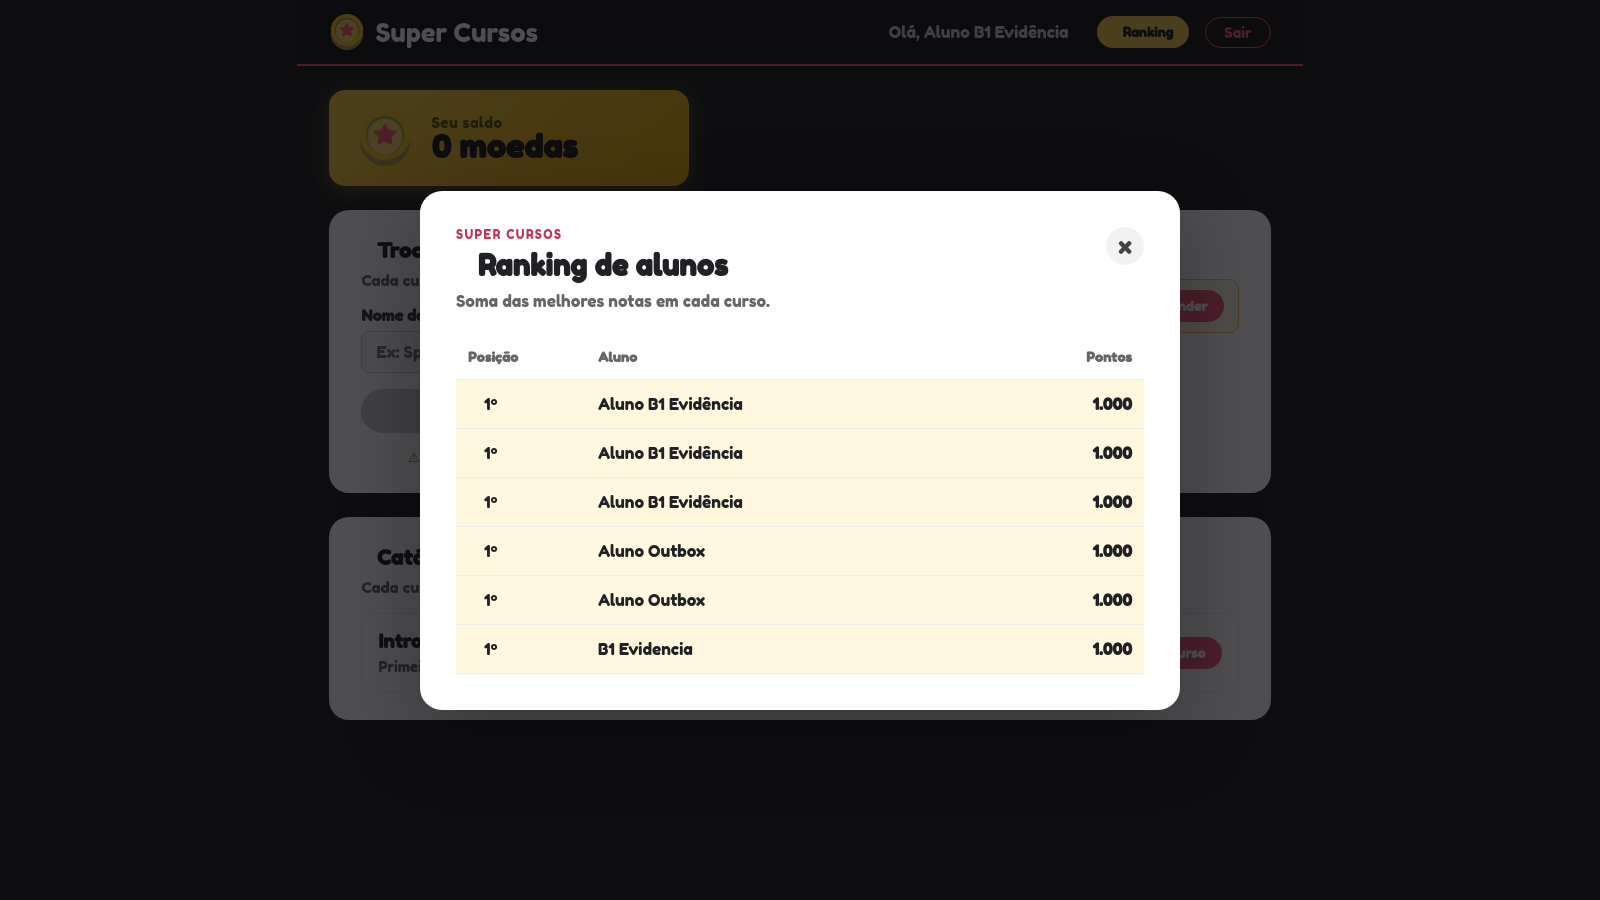
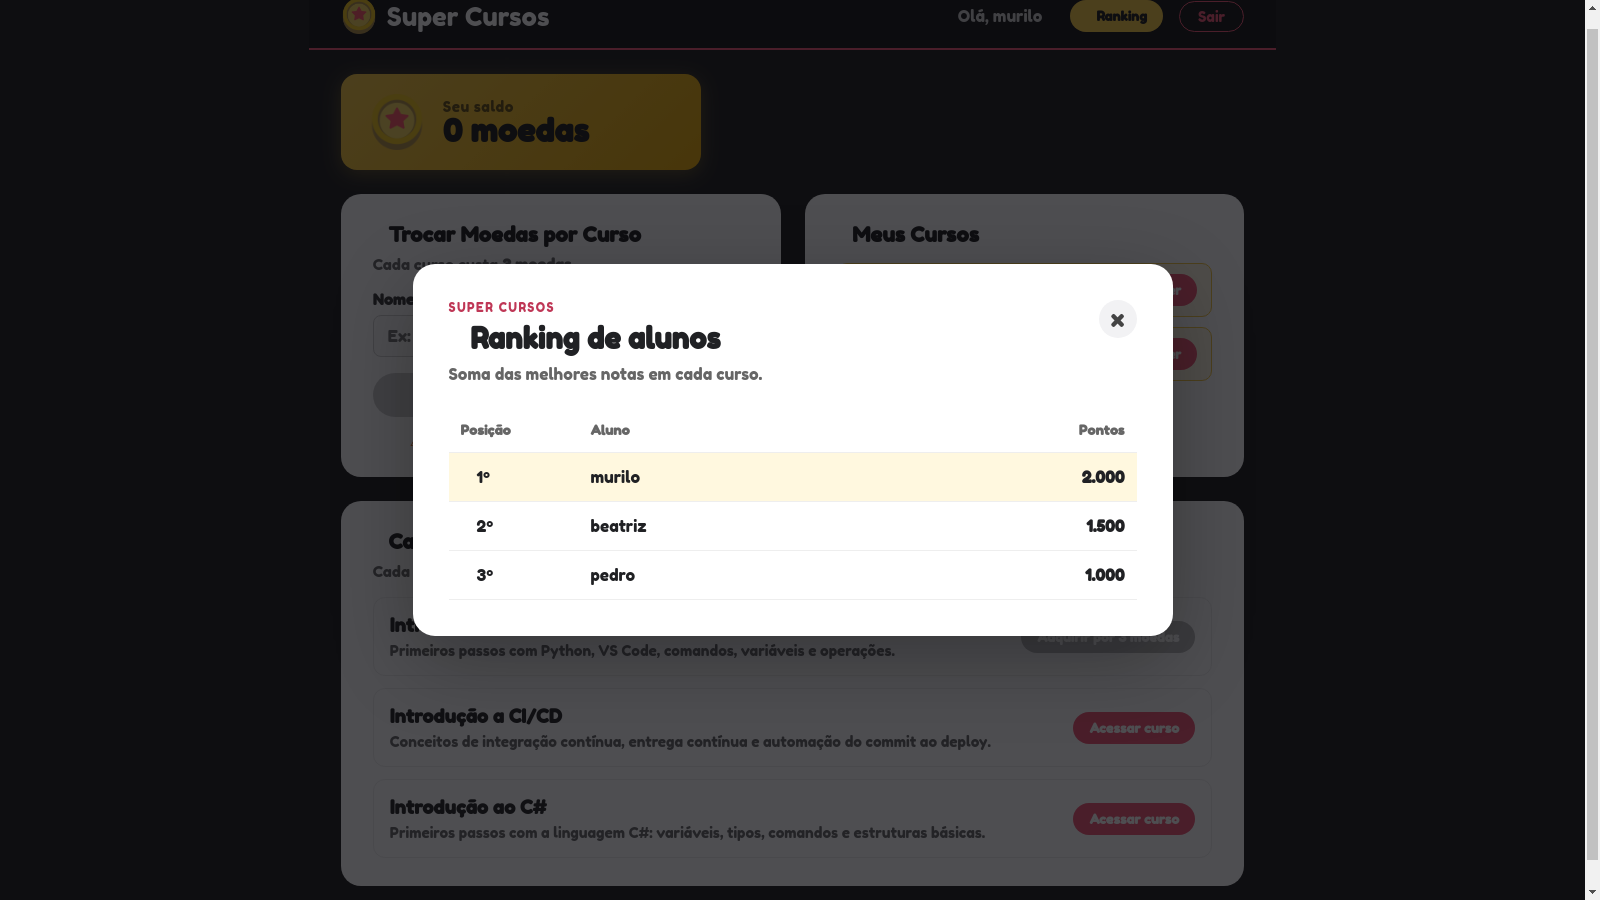
evidences organization

diff --git a/frontend/cypress/e2e/super-cursos.cy.js b/frontend/cypress/e2e/super-cursos.cy.js
@@ -127,11 +127,39 @@ describe('Super Cursos — autenticação e troca de moedas', () => {
     })
   })
 
+  it('mostra os cursos de CI/CD e C# com seus vídeos e quizzes', () => {
+    cadastrarAluno(6).then((aluno) => {
+      entrar(aluno)
+      cy.get('.catalogo-item').should('have.length', 3)
+
+      cy.contains('.catalogo-item', 'Introdução a CI/CD')
+        .contains('button', 'Adquirir por 3 moedas').click()
+      cy.contains('.catalogo-item', 'Introdução ao C#')
+        .contains('button', 'Adquirir por 3 moedas').click()
+
+      cy.contains('.curso-item', 'Introdução a CI/CD')
+        .contains('button', 'Assistir e responder').click()
+      cy.get('h1').should('contain.text', 'Introdução a CI/CD')
+      cy.get('[data-testid="course-video"] iframe')
+        .should('have.attr', 'src', 'https://www.youtube-nocookie.com/embed/95r8nJLq5zU')
+      cy.get('[data-testid="course-quiz"] .questao').should('have.length', 10)
+
+      cy.get('.btn-voltar').click()
+      cy.contains('.curso-item', 'Introdução ao C#')
+        .contains('button', 'Assistir e responder').click()
+      cy.get('h1').should('contain.text', 'Introdução ao C#')
+      cy.get('[data-testid="course-video"] iframe')
+        .should('have.attr', 'src', 'https://www.youtube-nocookie.com/embed/HOpCMKNJEFg')
+      cy.get('[data-testid="course-quiz"] .questao').should('have.length', 10)
+    })
+  })
+
   it('assiste ao vídeo de um curso, responde às 10 questões e atualiza o ranking', () => {
     cadastrarAluno(3).then((aluno) => {
       entrar(aluno)
       cy.intercept('POST', `/api/alunos/${aluno.id}/trocar-moedas`).as('adquirirCursoCatalogo')
-      cy.get('[data-testid="course-purchase"]').click()
+      cy.contains('.catalogo-item', 'Introdução ao Python')
+        .find('[data-testid="course-purchase"]').click()
       cy.wait('@adquirirCursoCatalogo').its('response.statusCode').should('eq', 200)
       cy.get('.msg-ok').should('contain.text', 'adquirido')
       cy.get('.cursos-card [data-testid="course-access"]').click()

diff --git a/src/main/java/com/example/grupo34_atdd/modules/cursos/application/CatalogoCursos.java b/src/main/java/com/example/grupo34_atdd/modules/cursos/application/CatalogoCursos.java
@@ -5,25 +5,36 @@ import com.example.grupo34_atdd.modules.cursos.domain.QuestaoQuiz;
 import org.springframework.stereotype.Component;
 
 import java.util.List;
-import java.util.Map;
+import java.util.Objects;
 
 @Component
 public class CatalogoCursos {
 
     public static final String SLUG_PYTHON = "introducao-python";
     public static final String TITULO_PYTHON = "Introdução ao Python";
+    public static final String SLUG_CICD = "introducao-cicd";
+    public static final String TITULO_CICD = "Introdução a CI/CD";
+    public static final String SLUG_CSHARP = "introducao-csharp";
+    public static final String TITULO_CSHARP = "Introdução ao C#";
     private static final String VIDEO_PYTHON = "https://www.youtube-nocookie.com/embed/g_R_Asf6Co0";
+    private static final String VIDEO_CICD = "https://www.youtube-nocookie.com/embed/95r8nJLq5zU";
+    private static final String VIDEO_CSHARP = "https://www.youtube-nocookie.com/embed/HOpCMKNJEFg";
 
-    private final Map<String, CursoComAvaliacao> cursos = Map.of(
-            SLUG_PYTHON, criarCursoPython()
+    private final List<CursoComAvaliacao> cursos = List.of(
+            criarCursoPython(),
+            criarCursoCicd(),
+            criarCursoCsharp()
     );
 
     public List<CursoComAvaliacao> listar() {
-        return List.copyOf(cursos.values());
+        return cursos;
     }
 
     public CursoComAvaliacao buscar(String slug) {
-        return cursos.get(slug);
+        return cursos.stream()
+                .filter(curso -> Objects.equals(curso.slug(), slug))
+                .findFirst()
+                .orElse(null);
     }
 
     private static CursoComAvaliacao criarCursoPython() {
@@ -40,6 +51,40 @@ public class CatalogoCursos {
                         q("q8", "O que acontece com o texto de um comentário durante a execução?", List.of("É executado como comando", "É ignorado pelo Python", "É exibido sempre", "É transformado em variável"), 1),
                         q("q9", "No exemplo da aula, qual operação calcula o lucro a partir de faturamento e custo?", List.of("Faturamento + custo", "Faturamento - custo", "Faturamento × custo", "Custo ÷ faturamento"), 1),
                         q("q10", "Um valor como 750,1 é classificado como qual tipo no exemplo?", List.of("Inteiro", "Texto", "Booleano", "Número decimal"), 3)
+                ));
+    }
+
+    private static CursoComAvaliacao criarCursoCicd() {
+        return new CursoComAvaliacao(SLUG_CICD, TITULO_CICD,
+                "Conceitos de integração contínua, entrega contínua e automação do commit ao deploy.", VIDEO_CICD,
+                List.of(
+                        q("q1", "O que significa CI em CI/CD?", List.of("Integração contínua", "Instalação de código", "Controle interno", "Interface de comandos"), 0),
+                        q("q2", "Qual prática ajuda a integrar mudanças de código com frequência?", List.of("Guardar alterações sem enviar", "Fazer commits pequenos e frequentes", "Evitar revisão de código", "Juntar todas as mudanças no fim do semestre"), 1),
+                        q("q3", "O que uma etapa de CI costuma executar após uma mudança?", List.of("Somente abrir o editor", "Apagar a versão anterior", "Compilar e executar testes automatizados", "Desativar o controle de versão"), 2),
+                        q("q4", "Para que serve uma pipeline CI/CD?", List.of("Organizar e automatizar etapas do desenvolvimento até a entrega", "Substituir o código-fonte", "Criar usuários no sistema", "Desenhar a interface do programa"), 0),
+                        q("q5", "O que deve acontecer se os testes automatizados falharem?", List.of("Publicar mesmo assim", "Ignorar o resultado", "Interromper o avanço até corrigir o problema", "Apagar os testes"), 2),
+                        q("q6", "Qual é a ideia de entrega contínua (Continuous Delivery)?", List.of("Manter a aplicação sempre pronta para ser publicada", "Publicar somente uma vez por ano", "Fazer todo teste manualmente", "Evitar gerar versões da aplicação"), 0),
+                        q("q7", "O que caracteriza a implantação contínua (Continuous Deployment)?", List.of("A equipe copia arquivos manualmente", "Toda mudança aprovada pela pipeline pode ser publicada automaticamente", "O sistema não possui ambientes", "O código é executado apenas no computador de quem programou"), 1),
+                        q("q8", "Qual é a função da etapa de build?", List.of("Criar uma versão executável ou distribuível da aplicação", "Escolher quem pode usar o sistema", "Editar as respostas do quiz", "Substituir o banco de dados"), 0),
+                        q("q9", "O que é feito em uma etapa de deploy?", List.of("A aplicação é disponibilizada em um ambiente", "O código deixa de ser versionado", "Os testes são removidos", "A documentação é apagada"), 0),
+                        q("q10", "Qual benefício a automação da pipeline oferece?", List.of("Elimina a necessidade de testar", "Torna a entrega mais repetível e reduz etapas manuais", "Garante que nunca haverá falhas", "Substitui a equipe de desenvolvimento"), 1)
+                ));
+    }
+
+    private static CursoComAvaliacao criarCursoCsharp() {
+        return new CursoComAvaliacao(SLUG_CSHARP, TITULO_CSHARP,
+                "Primeiros passos com a linguagem C#: variáveis, tipos, comandos e estruturas básicas.", VIDEO_CSHARP,
+                List.of(
+                        q("q1", "O que é C#?", List.of("Uma linguagem de programação", "Um banco de dados", "Um sistema operacional", "Um navegador de internet"), 0),
+                        q("q2", "Qual tipo é usado normalmente para guardar um número inteiro?", List.of("string", "int", "bool", "char[]"), 1),
+                        q("q3", "Qual tipo representa um texto?", List.of("int", "double", "string", "bool"), 2),
+                        q("q4", "Qual comando escreve uma linha no console em C#?", List.of("Console.WriteLine()", "printLine()", "System.Show()", "echoText()"), 0),
+                        q("q5", "Qual símbolo atribui um valor a uma variável?", List.of("==", "=", "!=", ">="), 1),
+                        q("q6", "Quais valores uma variável do tipo bool pode guardar?", List.of("Somente números", "Texto e números", "true ou false", "Datas e horários"), 2),
+                        q("q7", "Qual sinal normalmente encerra uma instrução em C#?", List.of(":", ",", ".", ";"), 3),
+                        q("q8", "Para que servem as chaves { } no código?", List.of("Delimitar um bloco de código", "Declarar um comentário", "Converter texto em número", "Finalizar o programa"), 0),
+                        q("q9", "Para que serve a estrutura if?", List.of("Repetir uma instrução um número fixo de vezes", "Executar uma parte do código conforme uma condição", "Criar um arquivo", "Mostrar uma mensagem sempre"), 1),
+                        q("q10", "Para que serve um laço for?", List.of("Declarar um texto", "Encerrar a aplicação", "Repetir instruções seguindo uma condição", "Comparar duas strings"), 2)
                 ));
     }
 

diff --git a/src/test/java/com/example/grupo34_atdd/modules/cursos/application/CatalogoCursosTest.java b/src/test/java/com/example/grupo34_atdd/modules/cursos/application/CatalogoCursosTest.java
@@ -1,0 +1,22 @@
+package com.example.grupo34_atdd.modules.cursos.application;
+
+import org.junit.jupiter.api.Test;
+
+import static org.junit.jupiter.api.Assertions.assertEquals;
+import static org.junit.jupiter.api.Assertions.assertTrue;
+
+class CatalogoCursosTest {
+
+    @Test
+    void catalogoContemOsTresCursosComVideoEDezQuestoesCada() {
+        var cursos = new CatalogoCursos().listar();
+
+        assertEquals(3, cursos.size());
+        assertEquals(CatalogoCursos.TITULO_PYTHON, cursos.get(0).titulo());
+        assertEquals(CatalogoCursos.TITULO_CICD, cursos.get(1).titulo());
+        assertEquals(CatalogoCursos.TITULO_CSHARP, cursos.get(2).titulo());
+        assertEquals("https://www.youtube-nocookie.com/embed/95r8nJLq5zU", cursos.get(1).videoUrl());
+        assertEquals("https://www.youtube-nocookie.com/embed/HOpCMKNJEFg", cursos.get(2).videoUrl());
+        assertTrue(cursos.stream().allMatch(curso -> curso.questoes().size() == 10));
+    }
+}

diff --git a/README.md b/README.md
@@ -254,7 +254,7 @@ O [print da aplicação](evidencias/B1/desafio-1/01-aplicacao-modular.png) mostr
 
 **ADR-006:** manter uma esteira até que ciclos de publicação diferentes justifiquem separação. A publicação no Docker Hub continua opcional.
 
-**Resultado B1 executado localmente:** `mvn verify` terminou com sucesso: 36 testes Java e 10 testes de integração PostgreSQL, sem falhas ou erros. Os sete cenários Cypress cobrem login, compra, saldo, vídeo, avaliação e ranking. Os testes Python da IA e do gateway têm dois cenários cada. O ambiente Compose e os health checks também foram conferidos.
+**Resultado B1 executado localmente:** `mvn verify` terminou com sucesso: 37 testes Java e 10 testes de integração PostgreSQL, sem falhas ou erros. Os oito cenários Cypress cobrem login, compra, saldo, os três cursos do catálogo (Python, CI/CD e C#), vídeo, avaliação e ranking. Os testes Python da IA e do gateway têm dois cenários cada. O ambiente Compose e os health checks também foram conferidos.
 
 O fallback também foi provocado com a IA parada; a [saída registrada](evidencias/B1/desafio-6/execucao-fallback.txt) mostra a resposta do Core e o contador correspondente no Prometheus.
 
@@ -272,82 +272,15 @@ O fallback também foi provocado com a IA parada; a [saída registrada](evidenci
 
 ### 14.1 C4 Container
 
-```mermaid
-C4Container
-    Person(aluno, "Aluno", "Estuda, responde avaliações e consulta ranking")
-    System_Ext(dispositivo, "Dispositivo do laboratório", "Publica eventos de aprendizagem MQTT")
-    System_Ext(youtube, "YouTube", "Hospeda o vídeo individual do curso")
-    System_Ext(jenkins, "Jenkins", "Executa CI/CD e aciona Docker Compose")
-    System_Boundary(superCursos, "Super Cursos") {
-        Container(frontend, "Interface Web", "Vue.js / Nginx", "Login, cursos, avaliação e ranking")
-        Container(core, "Core", "Java / Spring Boot", "Monólito modular, API, Outbox e regras")
-        Container(ai, "Serviço de IA demonstrativo", "Python / FastAPI", "Recomendação e busca textual local")
-        Container(mqtt, "Broker MQTT", "Mosquitto", "Recebe eventos QoS 1")
-        Container(gateway, "Gateway IoT", "Python / Paho MQTT", "Transforma MQTT em REST para o Core")
-        ContainerDb(db, "Banco relacional", "PostgreSQL", "Alunos, notas, eventos e Outbox")
-        Container(prom, "Coletor de métricas", "Prometheus", "Coleta métricas do Core, IA e gateway")
-        Container(grafana, "Painéis", "Grafana", "Mostra saúde e sinais operacionais")
-    }
-    Rel(aluno, frontend, "Usa", "HTTPS")
-    Rel(frontend, core, "Consome", "REST/JSON")
-    Rel(frontend, youtube, "Incorpora o vídeo", "HTTPS")
-    Rel(core, db, "Lê/grava dados e eventos", "JPA")
-    Rel(core, ai, "Consulta assistente/recomendação", "HTTP/JSON")
-    Rel(dispositivo, mqtt, "Publica", "MQTT QoS 1")
-    Rel(mqtt, gateway, "Entrega tópicos", "MQTT QoS 1")
-    Rel(gateway, core, "Envia evento normalizado", "REST/JSON")
-    Rel(prom, core, "Coleta", "Actuator/Prometheus")
-    Rel(prom, ai, "Coleta", "Prometheus")
-    Rel(prom, gateway, "Coleta", "Prometheus")
-    Rel(grafana, prom, "Consulta séries", "PromQL")
-    Rel(jenkins, core, "Testa/constrói/implanta", "Pipeline e Docker")
-```
+![Diagrama C4 Container do Super Cursos](evidencias/B1/diagramas/c4-container-super-cursos.png)
 
 ### 14.2 C4 Component do Core
 
-```mermaid
-C4Component
-    Container_Boundary(core, "Core Spring Boot") {
-        Component(aluno, "Módulo aluno", "Cadastro, login, moedas e aquisição")
-        Component(cursos, "Módulo cursos", "Catálogo, vídeo, prova e gravação de recorde")
-        Component(ranking, "Módulo ranking", "Porta de domínio e regras de posições")
-        Component(jpa, "Adaptador JPA do Ranking", "Traduz porta para Spring Data/PostgreSQL")
-        Component(outbox, "Módulo eventos", "Outbox, despachante e consumidor de demonstração")
-        Component(ia, "Cliente de IA", "HTTP com timeout, resposta alternativa e métricas")
-        Component(iot, "Entrada IoT", "Validação, deduplicação e persistência")
-        Component(iotRepo, "Persistência de eventos IoT", "Spring Data/PostgreSQL")
-    }
-    Container_Ext(aiService, "Serviço Python", "FastAPI", "Busca textual e recomendações demonstrativas")
-    Rel(cursos, aluno, "Valida aquisição")
-    Rel(cursos, ranking, "Salva melhor nota via contrato de domínio")
-    Rel(ranking, jpa, "Porta implementada pelo adaptador")
-    Rel(cursos, outbox, "Registra evento na transação")
-    Rel(ia, aiService, "Consome por HTTP/JSON")
-    Rel(iot, iotRepo, "Persiste e deduplica por eventoId")
-```
+![Diagrama C4 Componentes do Core Spring Boot](evidencias/B1/diagramas/c4-component-core.png)
 
 ### 14.3 Fluxo de falha da Outbox
 
-```mermaid
-sequenceDiagram
-    participant A as Aluno
-    participant C as Core
-    participant DB as PostgreSQL / Outbox
-    participant N as Consumidor de notificação
-    A->>C: Envia avaliação
-    C->>DB: Grava nota e evento na mesma transação
-    DB-->>C: Confirma gravação
-    C-->>A: Retorna pontuação
-    C->>DB: Despachante busca pendências
-    C->>N: Tenta notificar em segundo plano
-    alt Consumidor disponível
-        N-->>C: Aceita
-        C->>DB: Marca como processado
-    else Consumidor indisponível
-        N--xC: Falha
-        C->>DB: Mantém pendente e soma tentativa
-    end
-```
+![Diagrama de sequência da Outbox na avaliação](evidencias/B1/diagramas/sequencia-outbox-avaliacao.png)
 
 ### 14.4 C4 Deployment / operação
 
@@ -373,13 +306,3 @@ C4Deployment
     Rel(prom, gateway, "Coleta métricas", "HTTP")
     Rel(grafana, prom, "Consulta métricas", "PromQL")
 ```
-
-## 15. Limitações e síntese para a PoC
-
-- Não foi feito teste de carga para afirmar atendimento a 100.000 usuários.
-- A busca de IA é demonstrativa e não usa LLM, embeddings ou base vetorial.
-- O consumidor de notificação é local e não envia e-mail ou SMS real.
-- O broker MQTT do mini-lab não tem autenticação; deve receber controle de acesso e TLS antes de ser exposto fora da máquina.
-- A política de segurança da API ainda permite `/api/**` sem associar as rotas a uma identidade validada.
-
-Para a PoC da Avaliação Final, levar o Core modular, a porta de persistência do Ranking, o fallback da IA, a Outbox e as métricas. Antes de expor a usuários reais, implementar autorização, proteger as integrações, definir política de retenção e medir carga, latência e volume.
